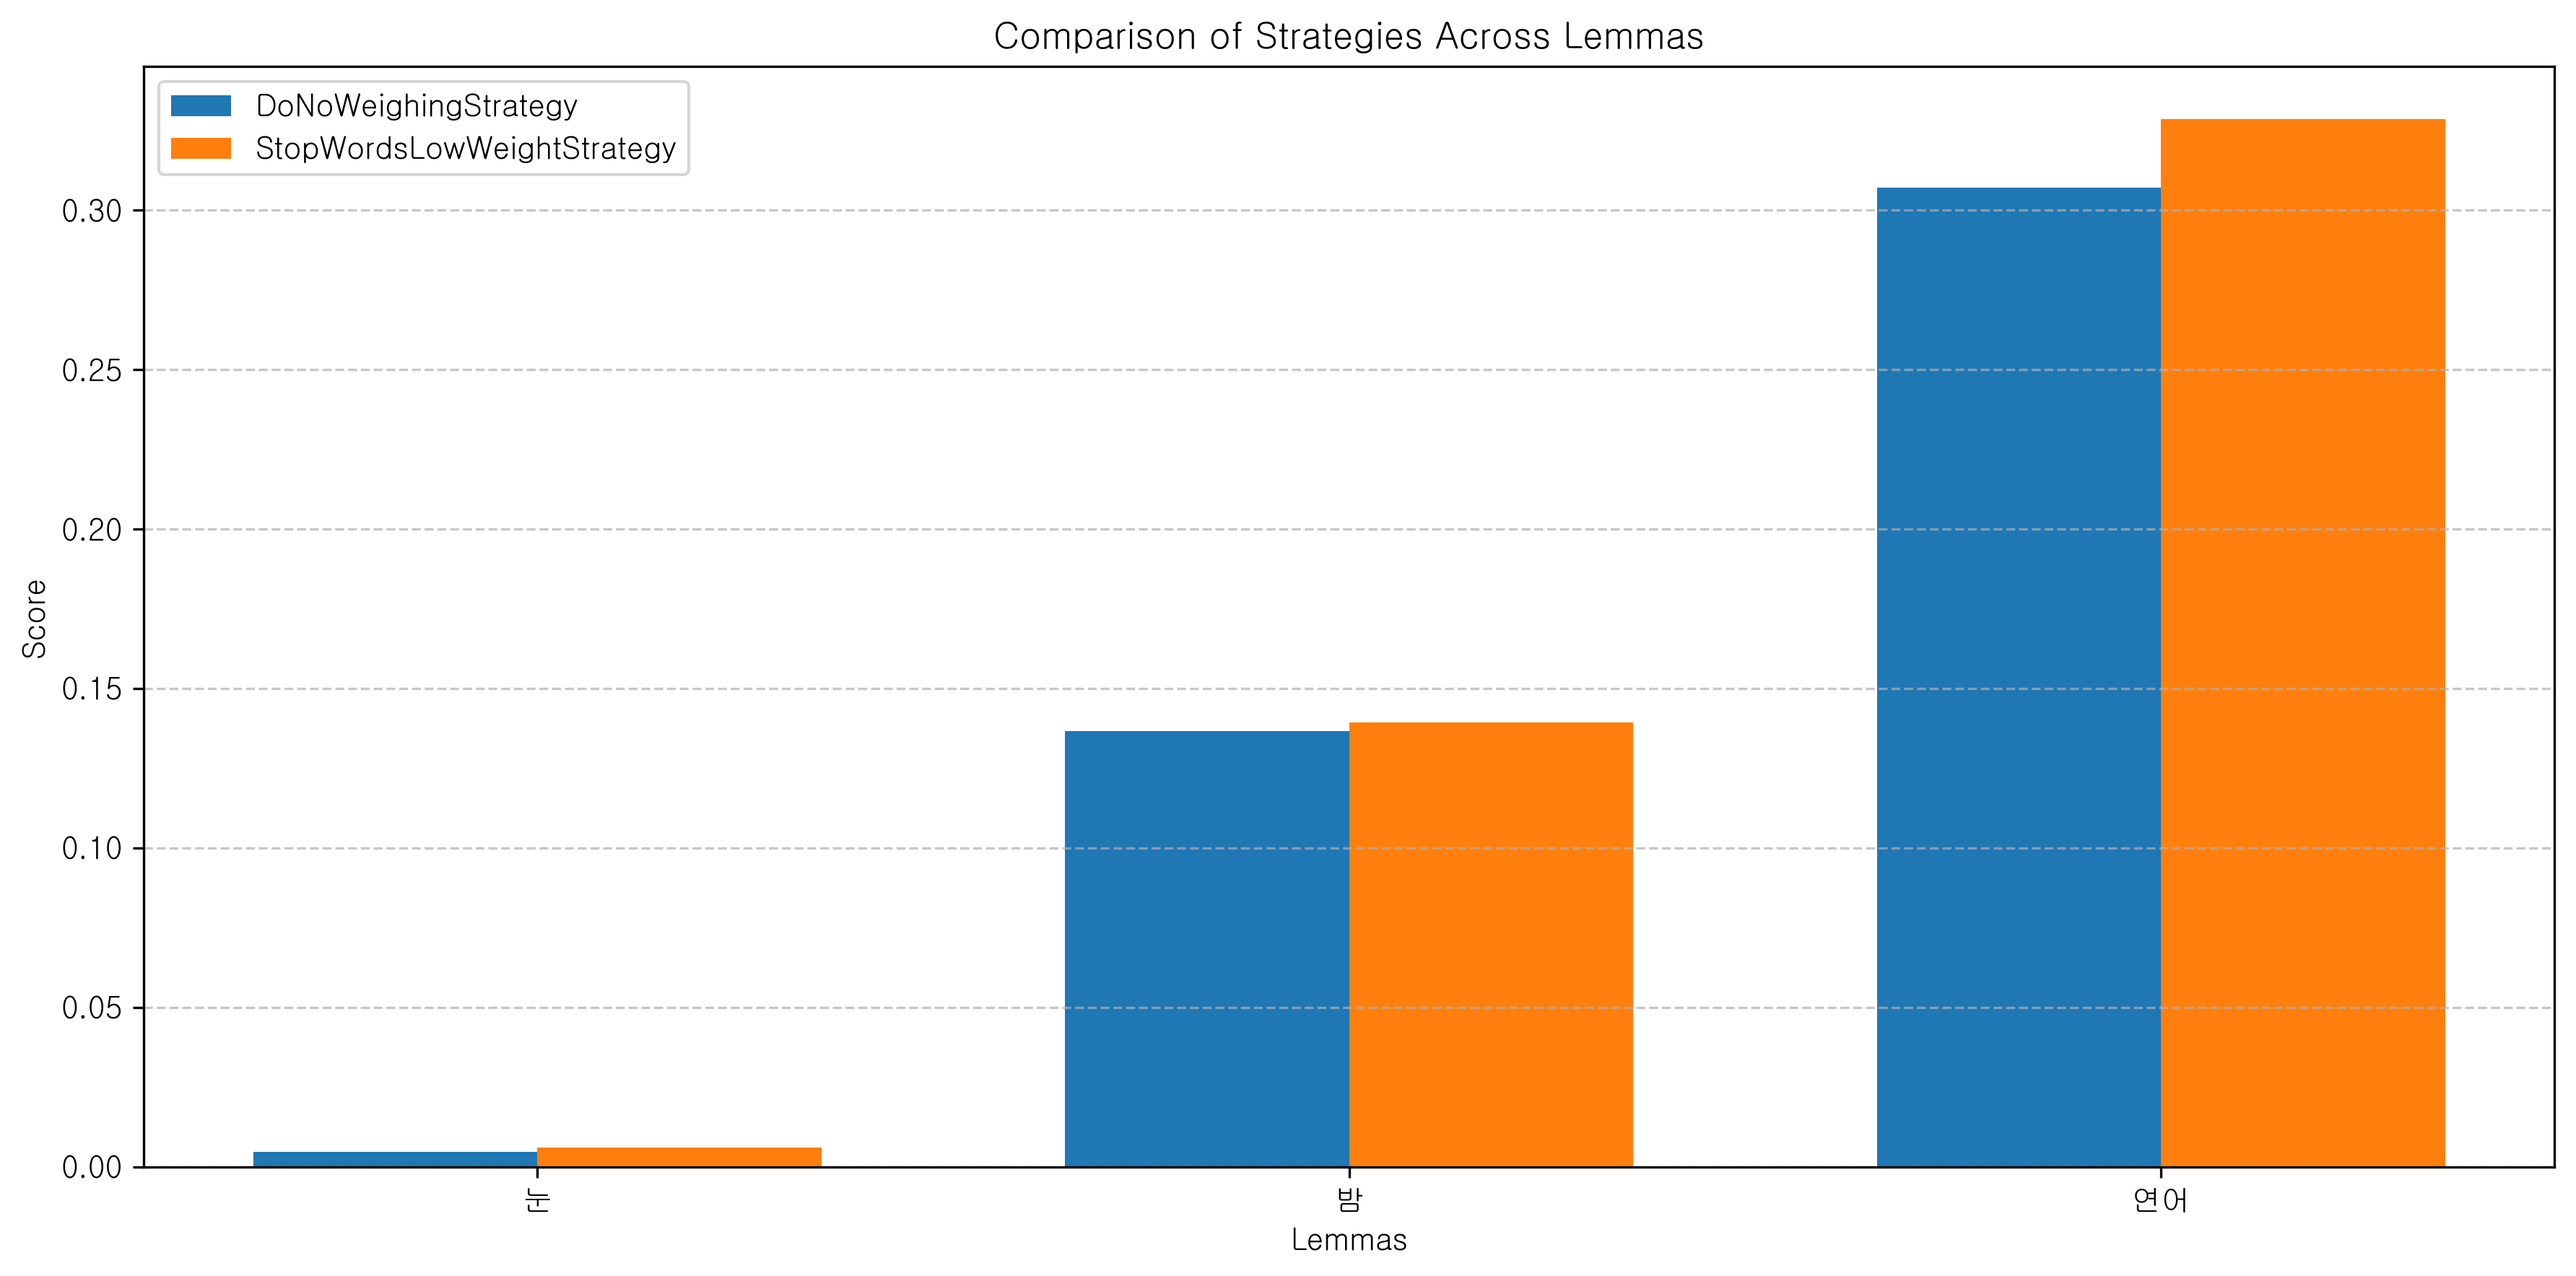
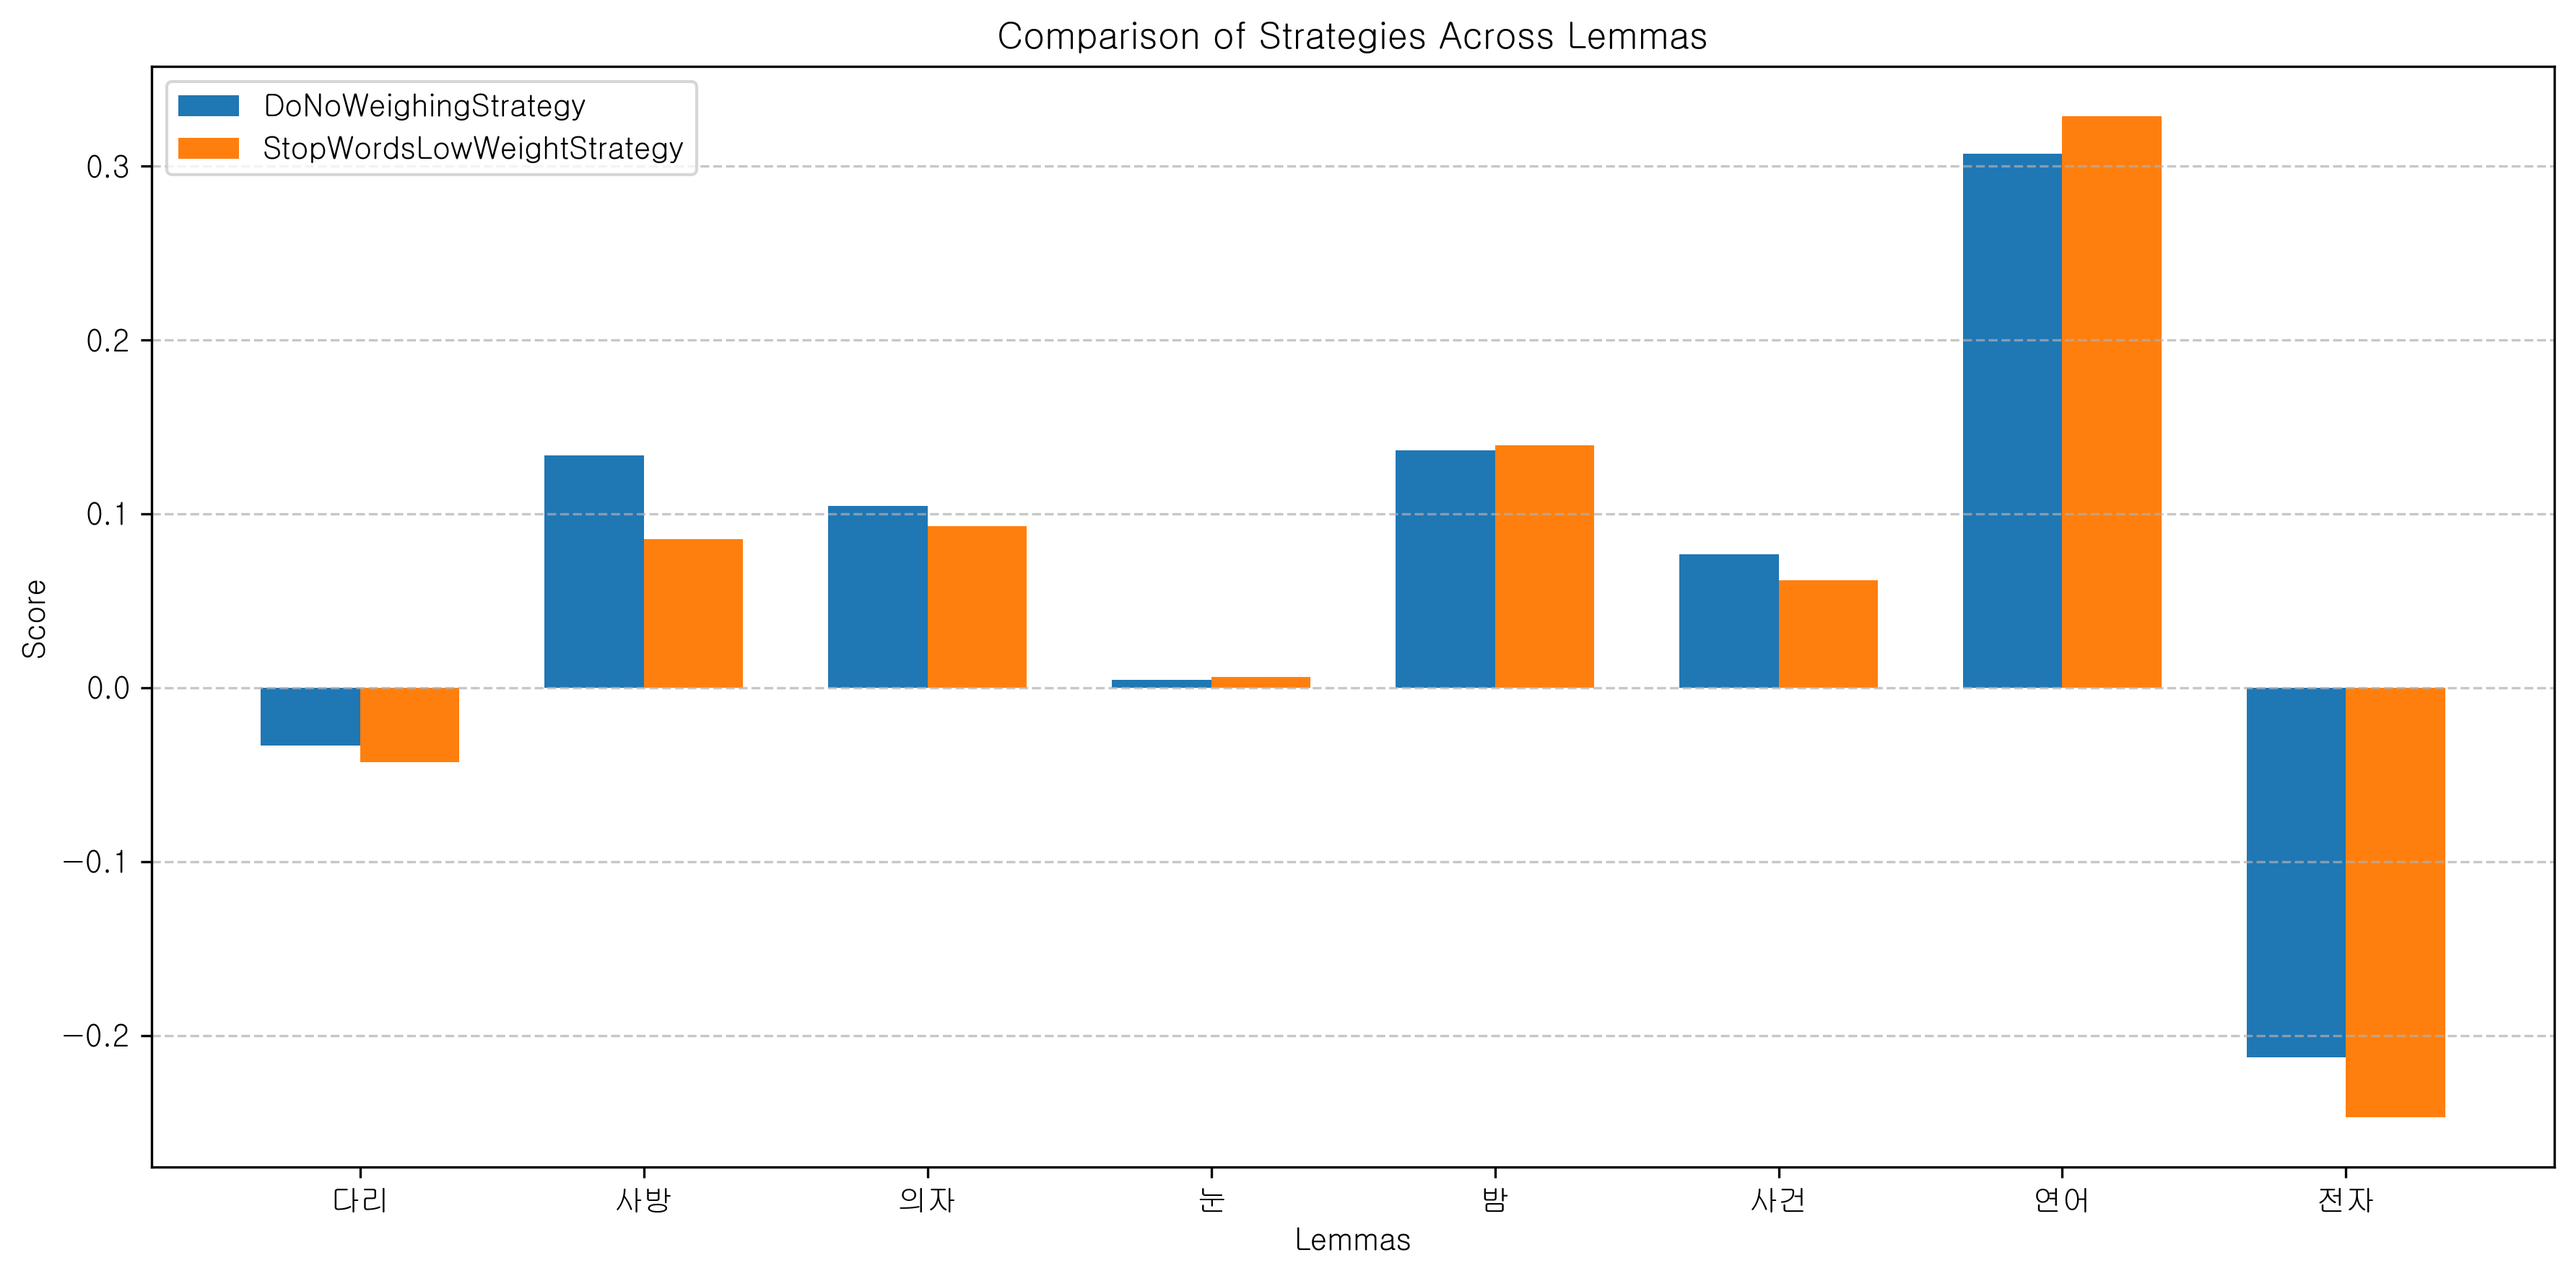
added more examples for korean

diff --git a/run_all_tests.py b/run_all_tests.py
@@ -52,11 +52,28 @@ def run_all_examples_with_all_configs(
     return results
 
 
-def run_all_in_dir(dir: str, language: Language):
-    all_files = os.listdir(dir)
-    target_lemmas = [os.path.splitext(filename)[0] for filename in all_files]
+def get_all_files_starting_in_dir(dir: str):
+    all_files = []
 
-    all_files = [os.path.join(dir, filename) for filename in all_files]
+    for file_or_dir in os.listdir(dir):
+
+        joined_with_path = os.path.join(dir, file_or_dir)
+
+        if os.path.isdir(joined_with_path):
+            all_files.extend(get_all_files_starting_in_dir(joined_with_path))
+        else:
+            all_files.append(joined_with_path)
+
+    return all_files
+
+
+def run_all_in_dir(dir: str, language: Language):
+
+    all_files = get_all_files_starting_in_dir(dir)
+    target_lemmas = [
+        os.path.splitext(filename)[0].split(os.sep)[-1] for filename in all_files
+    ]
+
     example_sense_pairs = [read_from_file(filename) for filename in all_files]
 
     return run_all_examples_with_all_configs(

diff --git a/write_result_files.py b/write_result_files.py
@@ -58,8 +58,6 @@ def write_result_files(test_results, path_to_file_without_ext):
 
     create_png(df, f"{path_to_file_without_ext}.png")
 
-    df.to_csv(f"{path_to_file_without_ext}.csv")
-
 
 def create_png(df: pd.DataFrame, png_path: str):
 
